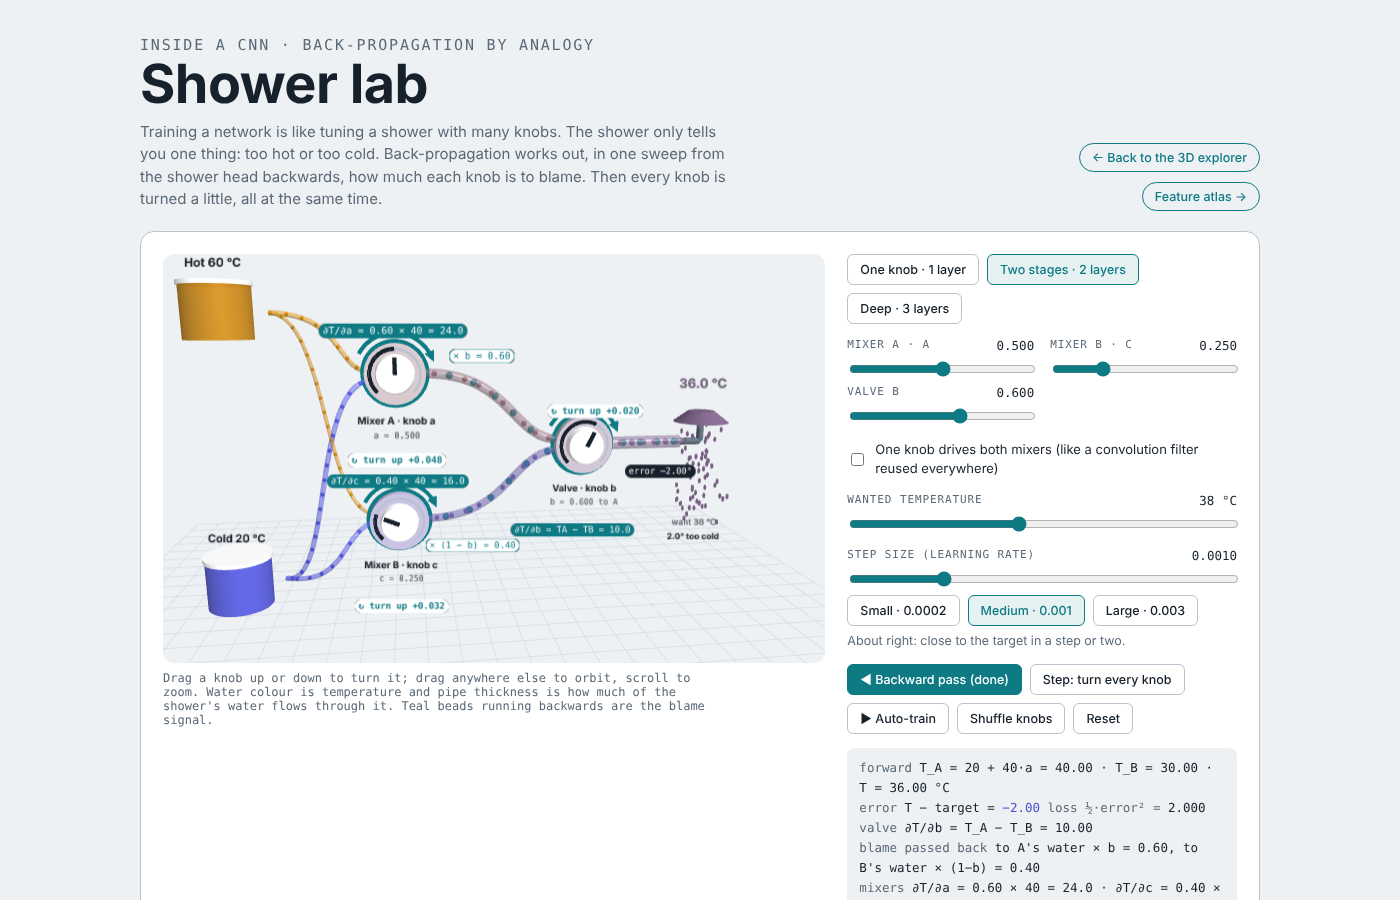
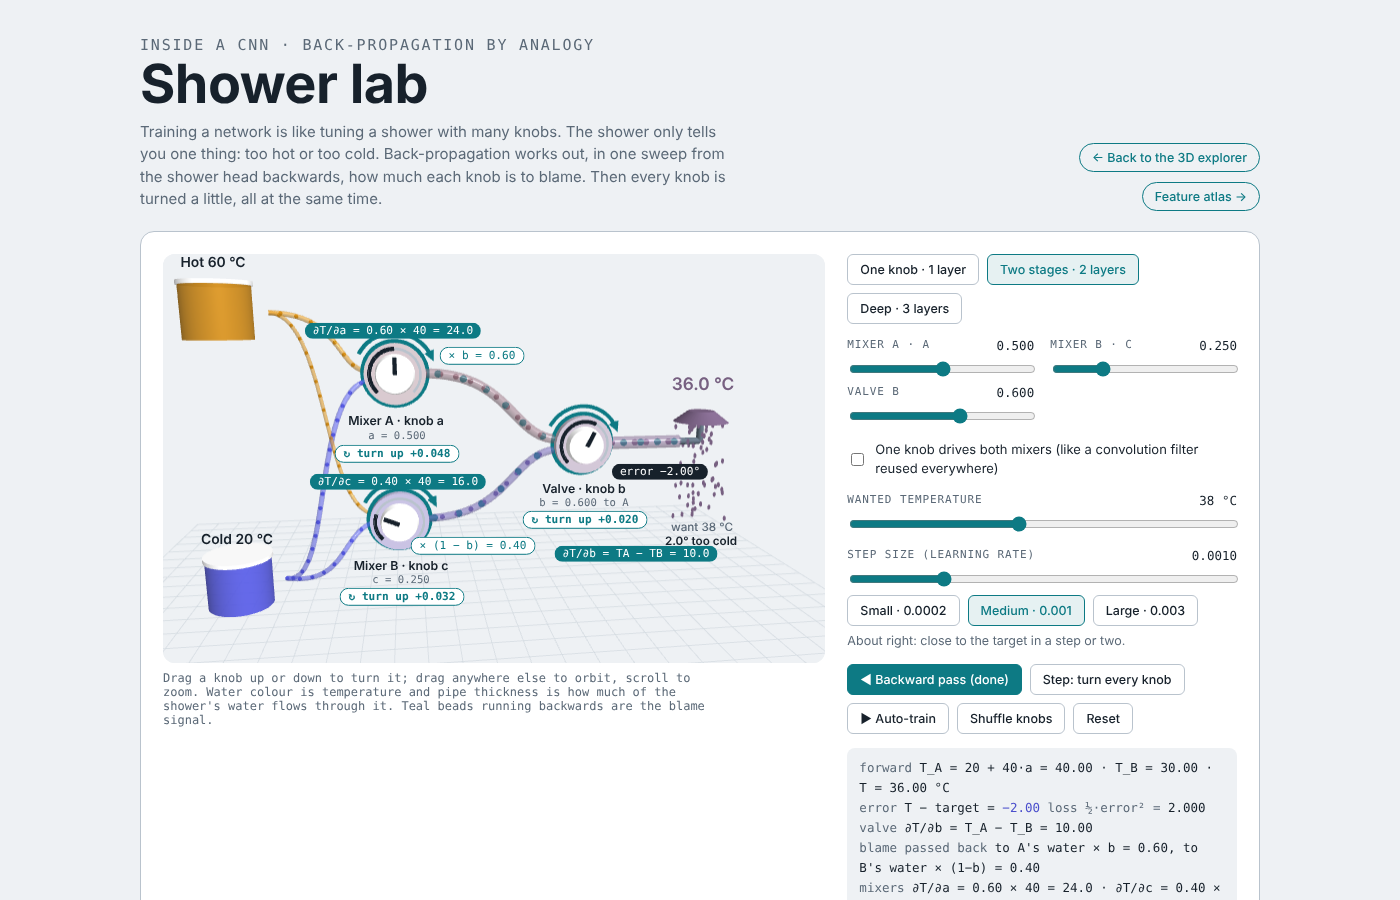
Shower lab: sharp labels
3D labels were canvas textures drawn into the scene, which blur when
scaled down, especially on high-density screens. They are now HTML text
positioned over the 3D view each frame, so they render at native
resolution. Also moved a few labels that overlapped.

Claude-Session: https://claude.ai/code/session_01PNQ3kzwrZ4eESe9rb1hn8f

diff --git a/index.html b/index.html
@@ -272,6 +272,9 @@ input[type=range]{width:100%;accent-color:var(--accent)}
 #shChart{width:100%;height:150px}
 .sh3dwrap{position:relative;width:100%;aspect-ratio:760/470;border-radius:12px;overflow:hidden;background:var(--bg)}
 #sh3d{display:block;width:100%;height:100%;touch-action:none;cursor:grab}
+.sh3dov{position:absolute;inset:0;pointer-events:none;overflow:hidden}
+.hl{position:absolute;left:0;top:0;white-space:nowrap;line-height:1.3;will-change:transform;-webkit-font-smoothing:antialiased}
+.hl.pill{border-radius:999px;padding:1px 8px}
 .knobs{display:grid;grid-template-columns:repeat(2,minmax(0,1fr));gap:6px 16px}
 .readout .cold{color:var(--neg);font-weight:500}
 .readout .hot{color:var(--ink);font-weight:500}
@@ -454,7 +457,7 @@ input[type=range]{width:100%;accent-color:var(--accent)}
     <section class="gs wide">
       <div class="shgrid">
         <div class="sec" style="gap:8px">
-          <div class="sh3dwrap" id="sh3dWrap" hidden><canvas id="sh3d" aria-label="3D shower: drag a knob up or down to turn it, drag anywhere else to orbit"></canvas></div>
+          <div class="sh3dwrap" id="sh3dWrap" hidden><canvas id="sh3d" aria-label="3D shower: drag a knob up or down to turn it, drag anywhere else to orbit"></canvas><div class="sh3dov" id="sh3dOv" aria-hidden="true"></div></div>
           <svg id="shSvg" viewBox="0 0 760 440" role="img" aria-label="Plumbing: hot and cold water feed two mixers, a valve blends them, the shower shows the temperature"></svg>
           <p class="cap">Drag a knob up or down to turn it; drag anywhere else to orbit, scroll to zoom. Water colour is temperature and pipe thickness is how much of the shower's water flows through it. Teal beads running backwards are the blame signal.</p>
         </div>
@@ -1537,7 +1540,7 @@ function bindShower(){
   $("#shExample").onclick=()=>{stopAuto();Object.assign(SH,{mode:2,share:false,a:.5,c:.25,b:.6,target:38,lr:.001,stage:-1,steps:0});SH.hist=[shForward().T];renderShower();};
 }
 /* ---- Shower lab in 3D: same state and arithmetic as above, drawn with three.js ---- */
-const S3={ok:null,R:null,scene:null,cam:null,ctl:null,root:null,key:null,pipes:{},knobs:{},pills:{},nud:{},arrows:{},labels:[],parts:[],blame:[],drops:null,dropSt:[],headMat:null,tLab:null,tgtLab:null,tgt2:null,raf:0,last:0,drag:null,lay:null};
+const S3={hls:[],ov:null,ok:null,R:null,scene:null,cam:null,ctl:null,root:null,key:null,pipes:{},knobs:{},pills:{},nud:{},arrows:{},labels:[],parts:[],blame:[],drops:null,dropSt:[],headMat:null,tLab:null,tgtLab:null,tgt2:null,raf:0,last:0,drag:null,lay:null};
 const shWrap=()=>$("#sh3dWrap"),shCv=()=>$("#sh3d");
 function L3(){ // layouts reuse the 2D drawing's coordinates (SVG px → world units)
   const m=SH.mode;
@@ -1550,7 +1553,7 @@ function L3(){ // layouts reuse the 2D drawing's coordinates (SVG px → world u
   return {cy:220,h:440,head:[628,220],tanks:[[75,60],[75,380]],
     pipes:pk.map(k=>({k,d:PIPES[k],z:k.startsWith("hot")?-.8:k.startsWith("cold")?.8:0,thin:/^(hot|cold)/.test(k)})),
     knobs:(two?[["a",270,130,SH.share?"shared knob a":"Mixer A · knob a"],["c",270,310,SH.share?"shares knob a":"Mixer B · knob c"],["b",500,220,"Valve · knob b"]]:[["a",270,130,"the only knob · a"]]).map(([k,x,y,name])=>({k,x,y,s:1,name})),
-    pills:two?{err:[586,248],b:[478,318],pa:[368,108],pb:[356,332],a:[270,80],c:[270,250]}:{err:[560,180],a:[270,80]},
+    pills:two?{err:[586,248],b:[560,352],pa:[368,108],pb:[356,332],a:[270,80],c:[270,250]}:{err:[560,180],a:[270,80]},
     nud:two?{a:[270,224],c:[270,402],b:[500,172]}:{a:[270,224]},heads:[]};}
 
 function sh3dInit(){
@@ -1568,7 +1571,7 @@ function sh3dInit(){
   cv.addEventListener("pointermove",e=>{if(S3.drag){const k=S3.drag.k==="c"&&SH.share&&SH.mode===2?"a":S3.drag.k;setKnob(k,S3.drag.v0+(S3.drag.y0-e.clientY)/160);return;}cv.style.cursor=hitKnob(e)?"ns-resize":"grab";});
   const up=()=>{if(S3.drag){S3.drag=null;S3.ctl.enabled=true;}};cv.addEventListener("pointerup",up);cv.addEventListener("pointercancel",up);
   new ResizeObserver(sh3dResize).observe(shWrap());
-  S3.ok=true;$("#shSvg").style.display="none";shWrap().hidden=false;return true;}
+  S3.ov=$("#sh3dOv");S3.ok=true;$("#shSvg").style.display="none";shWrap().hidden=false;return true;}
 function sh3dResize(){if(!S3.ok)return;const w=shWrap().clientWidth,h=shWrap().clientHeight;if(!w||!h)return;S3.R.setSize(w,h,false);S3.cam.aspect=w/h;S3.cam.updateProjectionMatrix();}
 const P3=(x,y,cy,z=0)=>new THREE.Vector3((x-380)/40,(cy-y)/40,z);
 function pathCurve(d,cy,zb){ // parse the 2D path ("M x,y C … H x") into a 3D curve; supply pipes bow in depth so they pass each other
@@ -1578,20 +1581,25 @@ function pathCurve(d,cy,zb){ // parse the 2D path ("M x,y C … H x") into a 3D 
     else if(cmd==="C"){const p1=P3(+tk[i],+tk[i+1],cy,zb),p2=P3(+tk[i+2],+tk[i+3],cy,zb),p3=P3(+tk[i+4],+tk[i+5],cy);cp.add(new THREE.CubicBezierCurve3(cur,p1,p2,p3));cur=p3;i+=6;}
     else if(cmd==="H"){const p=new THREE.Vector3((+tk[i]-380)/40,cur.y,cur.z);cp.add(new THREE.LineCurve3(cur,p));cur=p;i+=1;}else i++;}
   return cp;}
-function txtSprite(text,o={}){ // world-space label; o: size, col, bg, bold
-  const sp=new THREE.Sprite(new THREE.SpriteMaterial({transparent:true,depthTest:false}));sp.renderOrder=10;sp.userData={o,text:null};setTxt(sp,text);return sp;}
-function setTxt(sp,text){if(sp.userData.text===text)return;sp.userData.text=text;const o=sp.userData.o,cv=document.createElement("canvas"),x=cv.getContext("2d");
-  const f=`${o.bold?700:500} ${o.px||40}px ${o.mono?'"JetBrains Mono",monospace':'"IBM Plex Sans",system-ui,sans-serif'}`;x.font=f;
-  const w=Math.max(8,Math.ceil(x.measureText(text||" ").width)+(o.bg?34:10)),h=(o.px||40)*1.5;cv.width=w;cv.height=h;x.font=f;
-  if(o.bg){x.fillStyle=o.bg;const r=h/2;x.beginPath();x.moveTo(r,0);x.lineTo(w-r,0);x.arc(w-r,r,r,-Math.PI/2,Math.PI/2);x.lineTo(r,h);x.arc(r,r,r,Math.PI/2,Math.PI*1.5);x.fill();
-    if(o.stroke){x.strokeStyle=o.stroke;x.lineWidth=4;x.stroke();}}
-  x.fillStyle=o.col||CS.fg;x.textAlign="center";x.textBaseline="middle";x.fillText(text||"",w/2,h/2+2);
-  if(sp.material.map)sp.material.map.dispose();sp.material.map=new THREE.CanvasTexture(cv);sp.material.map.anisotropy=4;sp.material.needsUpdate=true;
-  const H=o.size||.4;sp.scale.set(H*w/h,H,1);}
+/* labels are real HTML text positioned over the 3D view each frame, so they stay sharp at any zoom or screen density */
+let HLc=null;
+function txtSprite(text,o={}){
+  if(!HLc)HLc=class extends THREE.Object3D{constructor(o){super();this.userData.o=o;this.el=document.createElement("div");this.el.className="hl";this.txt=null;S3.ov.appendChild(this.el);S3.hls.push(this);}};
+  const l=new HLc(o);setTxt(l,text);return l;}
+function setTxt(l,text){const o=l.userData.o,e=l.el;
+  e.style.color=o.col||"var(--fg)";e.style.background=o.bg||"transparent";e.style.border=o.stroke?`1.5px solid ${o.stroke}`:"0";
+  e.style.fontFamily=o.mono?"var(--f-mono)":"var(--f-body)";e.style.fontWeight=o.bold?"600":"500";e.classList.toggle("pill",!!o.bg);
+  l.fs=Math.max(11,(o.size||.4)*32);if(l.txt!==text){l.txt=text;e.textContent=text||"";}}
+function placeLabels(){const cv=shCv(),w=cv.clientWidth,h=cv.clientHeight,k=clamp(w/760,.74,1.15),v=new THREE.Vector3();
+  S3.hls.forEach(l=>{let vis=l.visible&&!!l.txt,p=l.parent;while(vis&&p){vis=p.visible;p=p.parent;}
+    if(vis){l.getWorldPosition(v);v.project(S3.cam);vis=v.z<1&&Math.abs(v.x)<1.3&&Math.abs(v.y)<1.3;}
+    if(!vis){if(l.el.style.display!=="none")l.el.style.display="none";return;}
+    l.el.style.display="";l.el.style.fontSize=(l.fs*k).toFixed(1)+"px";
+    l.el.style.transform=`translate(${Math.round((v.x+1)/2*w)}px,${Math.round((1-v.y)/2*h)}px) translate(-50%,-50%)`;});}
 const tcol=T=>new THREE.Color(tempCol(T));
 function disposeTree(o){o.traverse(c=>{if(c.geometry)c.geometry.dispose();if(c.material){const ms=Array.isArray(c.material)?c.material:[c.material];ms.forEach(m=>{if(m.map)m.map.dispose();m.dispose();});}});}
 function sh3dBuild(){
-  if(S3.root){S3.scene.remove(S3.root);disposeTree(S3.root);}
+  if(S3.root){S3.scene.remove(S3.root);disposeTree(S3.root);}S3.ov.innerHTML="";S3.hls=[];
   const lay=L3(),cy=lay.cy,root=new THREE.Group();S3.root=root;S3.lay=lay;S3.scene.add(root);S3.scene.background=new THREE.Color(CS.bg);
   S3.pipes={};S3.knobs={};S3.pills={};S3.nud={};S3.arrows={};S3.parts=[];S3.blame=[];
   const std=(c,o={})=>new THREE.MeshStandardMaterial(Object.assign({color:c,roughness:.45,metalness:.08},o));
@@ -1601,7 +1609,7 @@ function sh3dBuild(){
   [[lay.tanks[0],THOT,"Hot",CS.ink],[lay.tanks[1],TCOLD,"Cold",CS.neg]].forEach(([[x,y],T,n,c])=>{const p=P3(x,y,cy);
     const tank=new THREE.Mesh(new THREE.CylinderGeometry(.95,.95,1.5,40),std(c,{transparent:true,opacity:.9}));tank.position.copy(p);root.add(tank);
     const cap=new THREE.Mesh(new THREE.CylinderGeometry(1,1,.12,40),std(CS.surface));cap.position.set(p.x,p.y+.8,p.z);root.add(cap);
-    const lb=txtSprite(`${n} ${T} °C`,{size:.5,bold:true,col:CS.fg});lb.position.set(p.x,p.y+1.35,p.z);root.add(lb);});
+    const lb=txtSprite(`${n} ${T} °C`,{size:.5,bold:true,col:CS.fg});lb.position.set(p.x,n==="Cold"?p.y-1.3:p.y+1.35,p.z);root.add(lb);});
   // pipes: a glass tube with water particles inside, plus a blame-particle stream
   lay.pipes.forEach(pp=>{const curve=pathCurve(pp.d,cy,pp.z);const len=curve.getLength();
     const mat=std(CS.grid,{transparent:true,opacity:.55,roughness:.15,metalness:.05,depthWrite:false});
@@ -1629,7 +1637,7 @@ function sh3dBuild(){
   if(SH.mode===2&&SH.share){const a=S3.knobs.a.g.position,c=S3.knobs.c.g.position;const l=new THREE.Mesh(new THREE.CylinderGeometry(.04,.04,a.distanceTo(c)-2,8),new THREE.MeshBasicMaterial({color:CS.accent}));l.position.set(a.x,(a.y+c.y)/2,.3);root.add(l);}
   // blame pills and nudge labels
   Object.entries(lay.pills).forEach(([id,[x,y]])=>{const sp=txtSprite("",{size:.4,bg:CS.accent,col:CS.surface,mono:true});sp.position.copy(P3(x,y,cy,1.15));sp.visible=false;root.add(sp);S3.pills[id]=sp;});
-  Object.entries(lay.nud).forEach(([k,[x,y]])=>{const sp=txtSprite("",{size:.4,col:CS.accent,bold:true,mono:true,bg:CS.surface});sp.position.copy(P3(x,y,cy,1.3));sp.visible=false;root.add(sp);S3.nud[k]=sp;});
+  Object.keys(lay.nud).forEach(k=>{const o=S3.knobs[k];if(!o)return;const sp=txtSprite("",{size:.4,col:CS.accent,bold:true,mono:true,bg:CS.surface,stroke:CS.accent});if(SH.mode===3)sp.position.set(-o.R-1.35,.05,.6);else sp.position.set(0,-o.R-1.4,.6);sp.visible=false;o.g.add(sp);S3.nud[k]=sp;});
   lay.heads.forEach(([x,y,t])=>{const sp=txtSprite(t,{size:.3,mono:true,col:CS.muted});sp.position.copy(P3(x,y,cy,0));root.add(sp);});
   // shower head with falling drops
   const [hx,hy]=lay.head,o=P3(hx,hy,cy),hp=new THREE.CurvePath(),q1=o.clone().add(new THREE.Vector3(.7,0,0)),q2=q1.clone().add(new THREE.Vector3(0,.75,0));
@@ -1639,8 +1647,8 @@ function sh3dBuild(){
   S3.drops=new THREE.InstancedMesh(new THREE.SphereGeometry(1,8,6),new THREE.MeshBasicMaterial(),70);root.add(S3.drops);
   S3.dropSt=[...Array(70)].map(()=>({x:(Math.random()-.5)*1.2,z:(Math.random()-.5)*1.2,y:-Math.random()*3,v:2+Math.random()*1.5}));
   S3.tLab=txtSprite("",{size:.62,bold:true});S3.tLab.position.set(S3.head.x,S3.head.y+1.05,0);root.add(S3.tLab);
-  S3.tgtLab=txtSprite("",{size:.42,col:CS.muted});S3.tgtLab.position.set(S3.head.x,S3.head.y-3.55,0);root.add(S3.tgtLab);
-  S3.tgt2=txtSprite("",{size:.42,col:CS.fg,bold:true});S3.tgt2.position.set(S3.head.x,S3.head.y-4.05,0);root.add(S3.tgt2);
+  S3.tgtLab=txtSprite("",{size:.42,col:CS.muted});S3.tgtLab.position.set(S3.head.x+.3,S3.head.y-3.75,0);root.add(S3.tgtLab);
+  S3.tgt2=txtSprite("",{size:.42,col:CS.fg,bold:true});S3.tgt2.position.set(S3.head.x+.3,S3.head.y-4.25,0);root.add(S3.tgt2);
   // camera framing
   const dz=SH.mode===3?23:19;S3.cam.position.set(-2.4,3.6,dz);S3.ctl.target.set(.2,-.4,0);S3.ctl.update();
   shWrap().style.aspectRatio=SH.mode===3?"760 / 560":"760 / 470";sh3dResize();
@@ -1701,7 +1709,7 @@ function sh3dFrame(now){
     dmy3.position.set(S3.head.x+s.x*(1+(-s.y)*.12),S3.head.y-.25+s.y,s.z*(1+(-s.y)*.12));dmy3.scale.set(.05,.09,.05);dmy3.updateMatrix();S3.drops.setMatrixAt(i,dmy3.matrix);});
   S3.drops.instanceMatrix.needsUpdate=true;
   Object.values(S3.arrows).forEach(a=>{if(a.visible)a.rotation.z=Math.sin(t*2.2)*.12*mv;});
-  S3.ctl.update();S3.R.render(S3.scene,S3.cam);
+  S3.ctl.update();S3.R.render(S3.scene,S3.cam);placeLabels();
   S3.raf=requestAnimationFrame(sh3dFrame);}
 function sh3dStart(){if(S3.ok&&!S3.raf&&!$("#shower").hidden)S3.raf=requestAnimationFrame(sh3dFrame);}
 function sh3dStop(){if(S3.raf){cancelAnimationFrame(S3.raf);S3.raf=0;}}

diff --git a/src/app.js b/src/app.js
@@ -998,7 +998,7 @@ function bindShower(){
   $("#shExample").onclick=()=>{stopAuto();Object.assign(SH,{mode:2,share:false,a:.5,c:.25,b:.6,target:38,lr:.001,stage:-1,steps:0});SH.hist=[shForward().T];renderShower();};
 }
 /* ---- Shower lab in 3D: same state and arithmetic as above, drawn with three.js ---- */
-const S3={ok:null,R:null,scene:null,cam:null,ctl:null,root:null,key:null,pipes:{},knobs:{},pills:{},nud:{},arrows:{},labels:[],parts:[],blame:[],drops:null,dropSt:[],headMat:null,tLab:null,tgtLab:null,tgt2:null,raf:0,last:0,drag:null,lay:null};
+const S3={hls:[],ov:null,ok:null,R:null,scene:null,cam:null,ctl:null,root:null,key:null,pipes:{},knobs:{},pills:{},nud:{},arrows:{},labels:[],parts:[],blame:[],drops:null,dropSt:[],headMat:null,tLab:null,tgtLab:null,tgt2:null,raf:0,last:0,drag:null,lay:null};
 const shWrap=()=>$("#sh3dWrap"),shCv=()=>$("#sh3d");
 function L3(){ // layouts reuse the 2D drawing's coordinates (SVG px → world units)
   const m=SH.mode;
@@ -1011,7 +1011,7 @@ function L3(){ // layouts reuse the 2D drawing's coordinates (SVG px → world u
   return {cy:220,h:440,head:[628,220],tanks:[[75,60],[75,380]],
     pipes:pk.map(k=>({k,d:PIPES[k],z:k.startsWith("hot")?-.8:k.startsWith("cold")?.8:0,thin:/^(hot|cold)/.test(k)})),
     knobs:(two?[["a",270,130,SH.share?"shared knob a":"Mixer A · knob a"],["c",270,310,SH.share?"shares knob a":"Mixer B · knob c"],["b",500,220,"Valve · knob b"]]:[["a",270,130,"the only knob · a"]]).map(([k,x,y,name])=>({k,x,y,s:1,name})),
-    pills:two?{err:[586,248],b:[478,318],pa:[368,108],pb:[356,332],a:[270,80],c:[270,250]}:{err:[560,180],a:[270,80]},
+    pills:two?{err:[586,248],b:[560,352],pa:[368,108],pb:[356,332],a:[270,80],c:[270,250]}:{err:[560,180],a:[270,80]},
     nud:two?{a:[270,224],c:[270,402],b:[500,172]}:{a:[270,224]},heads:[]};}
 
 function sh3dInit(){
@@ -1029,7 +1029,7 @@ function sh3dInit(){
   cv.addEventListener("pointermove",e=>{if(S3.drag){const k=S3.drag.k==="c"&&SH.share&&SH.mode===2?"a":S3.drag.k;setKnob(k,S3.drag.v0+(S3.drag.y0-e.clientY)/160);return;}cv.style.cursor=hitKnob(e)?"ns-resize":"grab";});
   const up=()=>{if(S3.drag){S3.drag=null;S3.ctl.enabled=true;}};cv.addEventListener("pointerup",up);cv.addEventListener("pointercancel",up);
   new ResizeObserver(sh3dResize).observe(shWrap());
-  S3.ok=true;$("#shSvg").style.display="none";shWrap().hidden=false;return true;}
+  S3.ov=$("#sh3dOv");S3.ok=true;$("#shSvg").style.display="none";shWrap().hidden=false;return true;}
 function sh3dResize(){if(!S3.ok)return;const w=shWrap().clientWidth,h=shWrap().clientHeight;if(!w||!h)return;S3.R.setSize(w,h,false);S3.cam.aspect=w/h;S3.cam.updateProjectionMatrix();}
 const P3=(x,y,cy,z=0)=>new THREE.Vector3((x-380)/40,(cy-y)/40,z);
 function pathCurve(d,cy,zb){ // parse the 2D path ("M x,y C … H x") into a 3D curve; supply pipes bow in depth so they pass each other
@@ -1039,20 +1039,25 @@ function pathCurve(d,cy,zb){ // parse the 2D path ("M x,y C … H x") into a 3D 
     else if(cmd==="C"){const p1=P3(+tk[i],+tk[i+1],cy,zb),p2=P3(+tk[i+2],+tk[i+3],cy,zb),p3=P3(+tk[i+4],+tk[i+5],cy);cp.add(new THREE.CubicBezierCurve3(cur,p1,p2,p3));cur=p3;i+=6;}
     else if(cmd==="H"){const p=new THREE.Vector3((+tk[i]-380)/40,cur.y,cur.z);cp.add(new THREE.LineCurve3(cur,p));cur=p;i+=1;}else i++;}
   return cp;}
-function txtSprite(text,o={}){ // world-space label; o: size, col, bg, bold
-  const sp=new THREE.Sprite(new THREE.SpriteMaterial({transparent:true,depthTest:false}));sp.renderOrder=10;sp.userData={o,text:null};setTxt(sp,text);return sp;}
-function setTxt(sp,text){if(sp.userData.text===text)return;sp.userData.text=text;const o=sp.userData.o,cv=document.createElement("canvas"),x=cv.getContext("2d");
-  const f=`${o.bold?700:500} ${o.px||40}px ${o.mono?'"JetBrains Mono",monospace':'"IBM Plex Sans",system-ui,sans-serif'}`;x.font=f;
-  const w=Math.max(8,Math.ceil(x.measureText(text||" ").width)+(o.bg?34:10)),h=(o.px||40)*1.5;cv.width=w;cv.height=h;x.font=f;
-  if(o.bg){x.fillStyle=o.bg;const r=h/2;x.beginPath();x.moveTo(r,0);x.lineTo(w-r,0);x.arc(w-r,r,r,-Math.PI/2,Math.PI/2);x.lineTo(r,h);x.arc(r,r,r,Math.PI/2,Math.PI*1.5);x.fill();
-    if(o.stroke){x.strokeStyle=o.stroke;x.lineWidth=4;x.stroke();}}
-  x.fillStyle=o.col||CS.fg;x.textAlign="center";x.textBaseline="middle";x.fillText(text||"",w/2,h/2+2);
-  if(sp.material.map)sp.material.map.dispose();sp.material.map=new THREE.CanvasTexture(cv);sp.material.map.anisotropy=4;sp.material.needsUpdate=true;
-  const H=o.size||.4;sp.scale.set(H*w/h,H,1);}
+/* labels are real HTML text positioned over the 3D view each frame, so they stay sharp at any zoom or screen density */
+let HLc=null;
+function txtSprite(text,o={}){
+  if(!HLc)HLc=class extends THREE.Object3D{constructor(o){super();this.userData.o=o;this.el=document.createElement("div");this.el.className="hl";this.txt=null;S3.ov.appendChild(this.el);S3.hls.push(this);}};
+  const l=new HLc(o);setTxt(l,text);return l;}
+function setTxt(l,text){const o=l.userData.o,e=l.el;
+  e.style.color=o.col||"var(--fg)";e.style.background=o.bg||"transparent";e.style.border=o.stroke?`1.5px solid ${o.stroke}`:"0";
+  e.style.fontFamily=o.mono?"var(--f-mono)":"var(--f-body)";e.style.fontWeight=o.bold?"600":"500";e.classList.toggle("pill",!!o.bg);
+  l.fs=Math.max(11,(o.size||.4)*32);if(l.txt!==text){l.txt=text;e.textContent=text||"";}}
+function placeLabels(){const cv=shCv(),w=cv.clientWidth,h=cv.clientHeight,k=clamp(w/760,.74,1.15),v=new THREE.Vector3();
+  S3.hls.forEach(l=>{let vis=l.visible&&!!l.txt,p=l.parent;while(vis&&p){vis=p.visible;p=p.parent;}
+    if(vis){l.getWorldPosition(v);v.project(S3.cam);vis=v.z<1&&Math.abs(v.x)<1.3&&Math.abs(v.y)<1.3;}
+    if(!vis){if(l.el.style.display!=="none")l.el.style.display="none";return;}
+    l.el.style.display="";l.el.style.fontSize=(l.fs*k).toFixed(1)+"px";
+    l.el.style.transform=`translate(${Math.round((v.x+1)/2*w)}px,${Math.round((1-v.y)/2*h)}px) translate(-50%,-50%)`;});}
 const tcol=T=>new THREE.Color(tempCol(T));
 function disposeTree(o){o.traverse(c=>{if(c.geometry)c.geometry.dispose();if(c.material){const ms=Array.isArray(c.material)?c.material:[c.material];ms.forEach(m=>{if(m.map)m.map.dispose();m.dispose();});}});}
 function sh3dBuild(){
-  if(S3.root){S3.scene.remove(S3.root);disposeTree(S3.root);}
+  if(S3.root){S3.scene.remove(S3.root);disposeTree(S3.root);}S3.ov.innerHTML="";S3.hls=[];
   const lay=L3(),cy=lay.cy,root=new THREE.Group();S3.root=root;S3.lay=lay;S3.scene.add(root);S3.scene.background=new THREE.Color(CS.bg);
   S3.pipes={};S3.knobs={};S3.pills={};S3.nud={};S3.arrows={};S3.parts=[];S3.blame=[];
   const std=(c,o={})=>new THREE.MeshStandardMaterial(Object.assign({color:c,roughness:.45,metalness:.08},o));
@@ -1062,7 +1067,7 @@ function sh3dBuild(){
   [[lay.tanks[0],THOT,"Hot",CS.ink],[lay.tanks[1],TCOLD,"Cold",CS.neg]].forEach(([[x,y],T,n,c])=>{const p=P3(x,y,cy);
     const tank=new THREE.Mesh(new THREE.CylinderGeometry(.95,.95,1.5,40),std(c,{transparent:true,opacity:.9}));tank.position.copy(p);root.add(tank);
     const cap=new THREE.Mesh(new THREE.CylinderGeometry(1,1,.12,40),std(CS.surface));cap.position.set(p.x,p.y+.8,p.z);root.add(cap);
-    const lb=txtSprite(`${n} ${T} °C`,{size:.5,bold:true,col:CS.fg});lb.position.set(p.x,p.y+1.35,p.z);root.add(lb);});
+    const lb=txtSprite(`${n} ${T} °C`,{size:.5,bold:true,col:CS.fg});lb.position.set(p.x,n==="Cold"?p.y-1.3:p.y+1.35,p.z);root.add(lb);});
   // pipes: a glass tube with water particles inside, plus a blame-particle stream
   lay.pipes.forEach(pp=>{const curve=pathCurve(pp.d,cy,pp.z);const len=curve.getLength();
     const mat=std(CS.grid,{transparent:true,opacity:.55,roughness:.15,metalness:.05,depthWrite:false});
@@ -1090,7 +1095,7 @@ function sh3dBuild(){
   if(SH.mode===2&&SH.share){const a=S3.knobs.a.g.position,c=S3.knobs.c.g.position;const l=new THREE.Mesh(new THREE.CylinderGeometry(.04,.04,a.distanceTo(c)-2,8),new THREE.MeshBasicMaterial({color:CS.accent}));l.position.set(a.x,(a.y+c.y)/2,.3);root.add(l);}
   // blame pills and nudge labels
   Object.entries(lay.pills).forEach(([id,[x,y]])=>{const sp=txtSprite("",{size:.4,bg:CS.accent,col:CS.surface,mono:true});sp.position.copy(P3(x,y,cy,1.15));sp.visible=false;root.add(sp);S3.pills[id]=sp;});
-  Object.entries(lay.nud).forEach(([k,[x,y]])=>{const sp=txtSprite("",{size:.4,col:CS.accent,bold:true,mono:true,bg:CS.surface});sp.position.copy(P3(x,y,cy,1.3));sp.visible=false;root.add(sp);S3.nud[k]=sp;});
+  Object.keys(lay.nud).forEach(k=>{const o=S3.knobs[k];if(!o)return;const sp=txtSprite("",{size:.4,col:CS.accent,bold:true,mono:true,bg:CS.surface,stroke:CS.accent});if(SH.mode===3)sp.position.set(-o.R-1.35,.05,.6);else sp.position.set(0,-o.R-1.4,.6);sp.visible=false;o.g.add(sp);S3.nud[k]=sp;});
   lay.heads.forEach(([x,y,t])=>{const sp=txtSprite(t,{size:.3,mono:true,col:CS.muted});sp.position.copy(P3(x,y,cy,0));root.add(sp);});
   // shower head with falling drops
   const [hx,hy]=lay.head,o=P3(hx,hy,cy),hp=new THREE.CurvePath(),q1=o.clone().add(new THREE.Vector3(.7,0,0)),q2=q1.clone().add(new THREE.Vector3(0,.75,0));
@@ -1100,8 +1105,8 @@ function sh3dBuild(){
   S3.drops=new THREE.InstancedMesh(new THREE.SphereGeometry(1,8,6),new THREE.MeshBasicMaterial(),70);root.add(S3.drops);
   S3.dropSt=[...Array(70)].map(()=>({x:(Math.random()-.5)*1.2,z:(Math.random()-.5)*1.2,y:-Math.random()*3,v:2+Math.random()*1.5}));
   S3.tLab=txtSprite("",{size:.62,bold:true});S3.tLab.position.set(S3.head.x,S3.head.y+1.05,0);root.add(S3.tLab);
-  S3.tgtLab=txtSprite("",{size:.42,col:CS.muted});S3.tgtLab.position.set(S3.head.x,S3.head.y-3.55,0);root.add(S3.tgtLab);
-  S3.tgt2=txtSprite("",{size:.42,col:CS.fg,bold:true});S3.tgt2.position.set(S3.head.x,S3.head.y-4.05,0);root.add(S3.tgt2);
+  S3.tgtLab=txtSprite("",{size:.42,col:CS.muted});S3.tgtLab.position.set(S3.head.x+.3,S3.head.y-3.75,0);root.add(S3.tgtLab);
+  S3.tgt2=txtSprite("",{size:.42,col:CS.fg,bold:true});S3.tgt2.position.set(S3.head.x+.3,S3.head.y-4.25,0);root.add(S3.tgt2);
   // camera framing
   const dz=SH.mode===3?23:19;S3.cam.position.set(-2.4,3.6,dz);S3.ctl.target.set(.2,-.4,0);S3.ctl.update();
   shWrap().style.aspectRatio=SH.mode===3?"760 / 560":"760 / 470";sh3dResize();
@@ -1162,7 +1167,7 @@ function sh3dFrame(now){
     dmy3.position.set(S3.head.x+s.x*(1+(-s.y)*.12),S3.head.y-.25+s.y,s.z*(1+(-s.y)*.12));dmy3.scale.set(.05,.09,.05);dmy3.updateMatrix();S3.drops.setMatrixAt(i,dmy3.matrix);});
   S3.drops.instanceMatrix.needsUpdate=true;
   Object.values(S3.arrows).forEach(a=>{if(a.visible)a.rotation.z=Math.sin(t*2.2)*.12*mv;});
-  S3.ctl.update();S3.R.render(S3.scene,S3.cam);
+  S3.ctl.update();S3.R.render(S3.scene,S3.cam);placeLabels();
   S3.raf=requestAnimationFrame(sh3dFrame);}
 function sh3dStart(){if(S3.ok&&!S3.raf&&!$("#shower").hidden)S3.raf=requestAnimationFrame(sh3dFrame);}
 function sh3dStop(){if(S3.raf){cancelAnimationFrame(S3.raf);S3.raf=0;}}

diff --git a/src/template.html b/src/template.html
@@ -272,6 +272,9 @@ input[type=range]{width:100%;accent-color:var(--accent)}
 #shChart{width:100%;height:150px}
 .sh3dwrap{position:relative;width:100%;aspect-ratio:760/470;border-radius:12px;overflow:hidden;background:var(--bg)}
 #sh3d{display:block;width:100%;height:100%;touch-action:none;cursor:grab}
+.sh3dov{position:absolute;inset:0;pointer-events:none;overflow:hidden}
+.hl{position:absolute;left:0;top:0;white-space:nowrap;line-height:1.3;will-change:transform;-webkit-font-smoothing:antialiased}
+.hl.pill{border-radius:999px;padding:1px 8px}
 .knobs{display:grid;grid-template-columns:repeat(2,minmax(0,1fr));gap:6px 16px}
 .readout .cold{color:var(--neg);font-weight:500}
 .readout .hot{color:var(--ink);font-weight:500}
@@ -454,7 +457,7 @@ input[type=range]{width:100%;accent-color:var(--accent)}
     <section class="gs wide">
       <div class="shgrid">
         <div class="sec" style="gap:8px">
-          <div class="sh3dwrap" id="sh3dWrap" hidden><canvas id="sh3d" aria-label="3D shower: drag a knob up or down to turn it, drag anywhere else to orbit"></canvas></div>
+          <div class="sh3dwrap" id="sh3dWrap" hidden><canvas id="sh3d" aria-label="3D shower: drag a knob up or down to turn it, drag anywhere else to orbit"></canvas><div class="sh3dov" id="sh3dOv" aria-hidden="true"></div></div>
           <svg id="shSvg" viewBox="0 0 760 440" role="img" aria-label="Plumbing: hot and cold water feed two mixers, a valve blends them, the shower shows the temperature"></svg>
           <p class="cap">Drag a knob up or down to turn it; drag anywhere else to orbit, scroll to zoom. Water colour is temperature and pipe thickness is how much of the shower's water flows through it. Teal beads running backwards are the blame signal.</p>
         </div>
